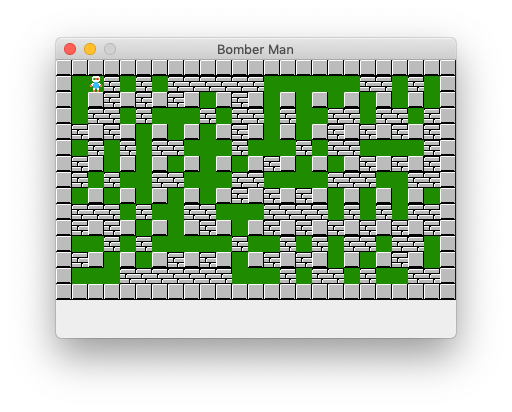
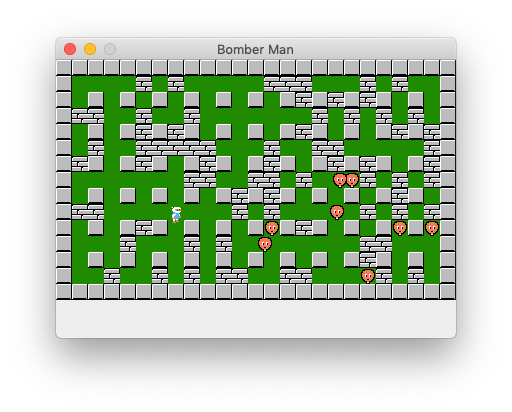
文档更新

Changed region(s): [[0.125, 0.1748, 0.875, 0.699]]

diff --git a/README.md b/README.md
@@ -1,5 +1,19 @@
-# Bomberman
+# 炸弹人
 
-开始java学习，以这个小游戏作为目标
+Java Version **11**
+
+***
+
+实现的功能：
+
+基本的移动，炸弹，消灭敌人，人物死亡
+
+***
+
+未完成的功能：
+
+人物能力的增强（道具）  
+背景音乐  
+怪物的路线僵硬（后续优化）
 
 ![界面](./doc/main.png)
